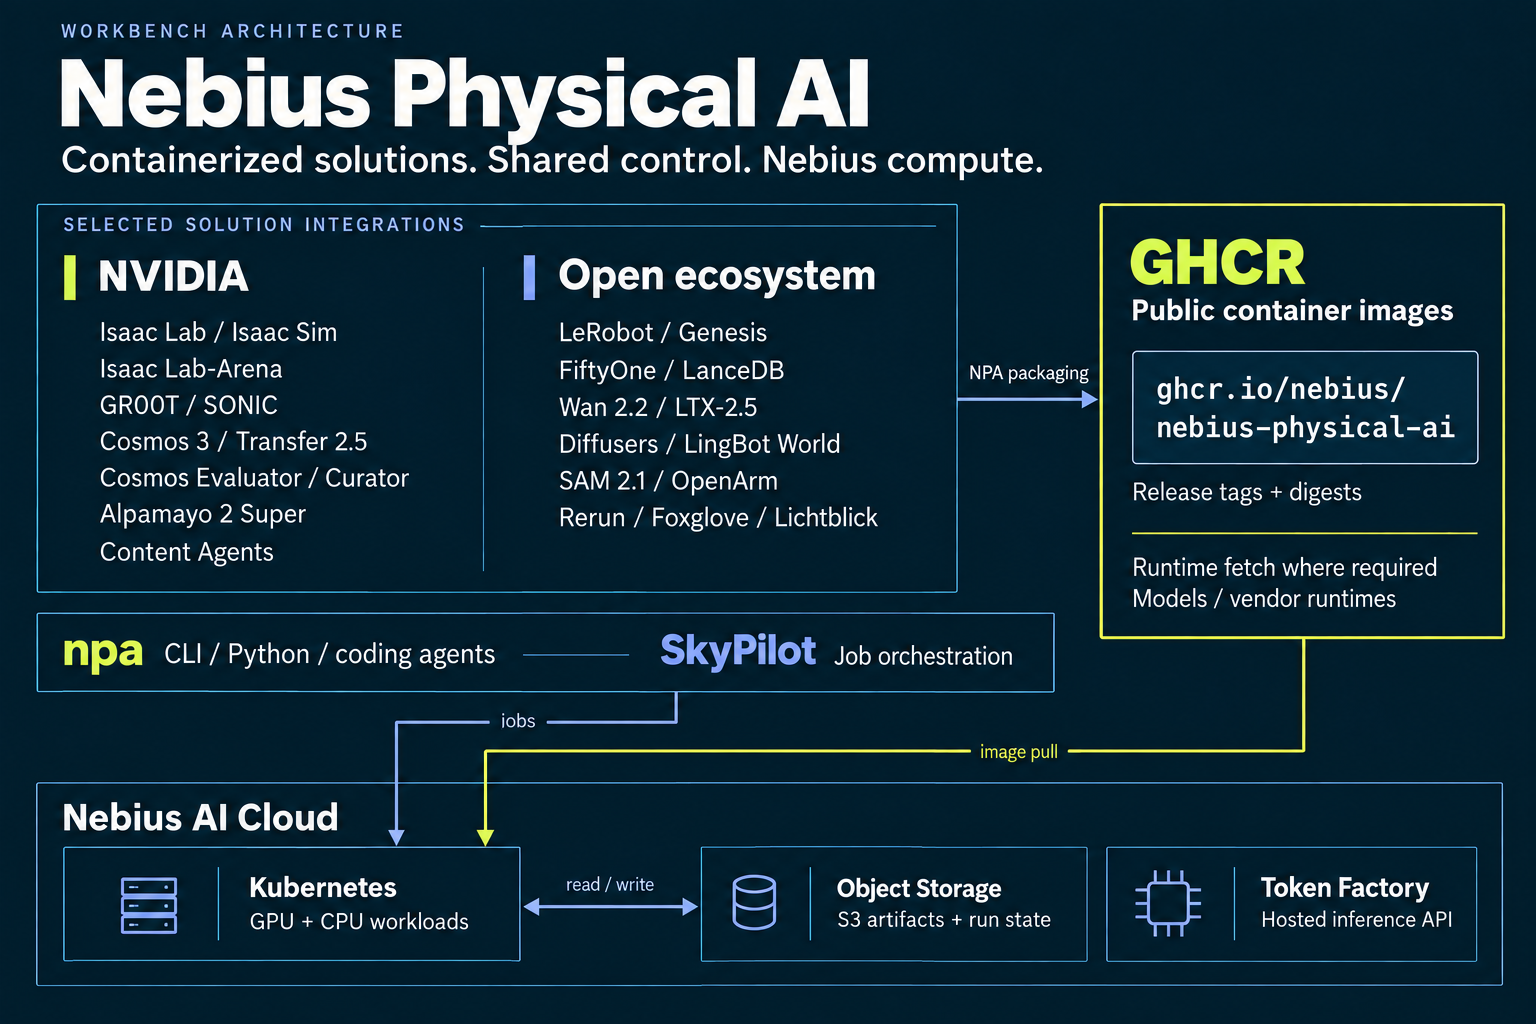
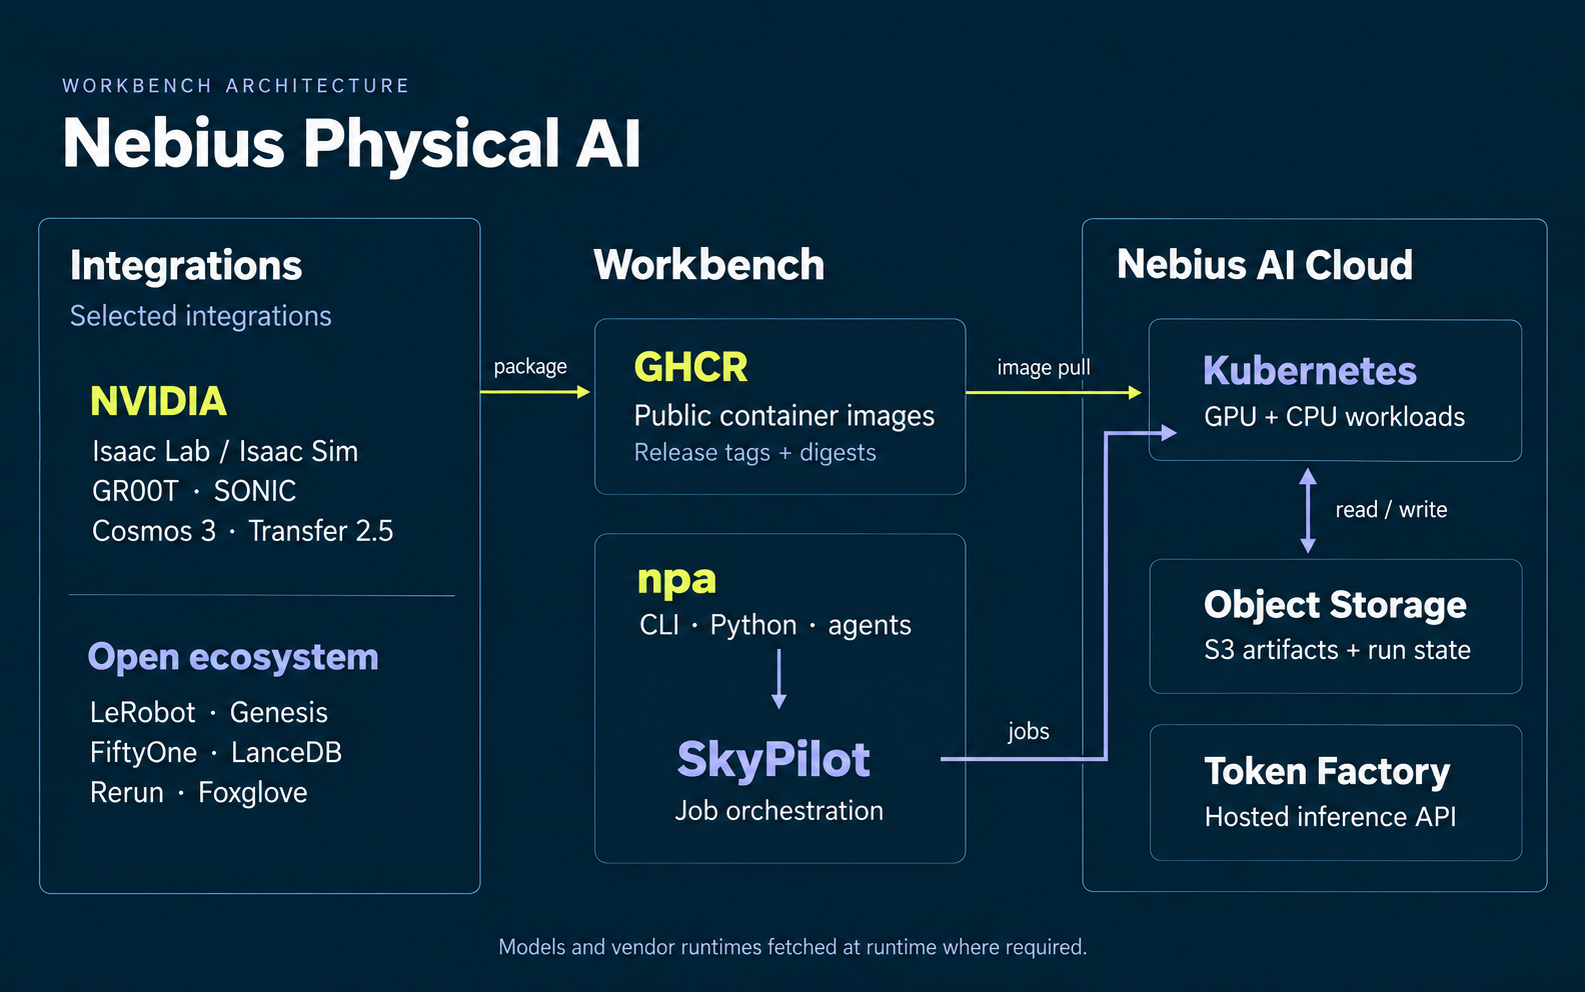
Simplify the Workbench architecture diagram

diff --git a/docs/assets/workbench-architecture.md b/docs/assets/workbench-architecture.md
@@ -9,8 +9,8 @@ individual workflow executes.
 
 | Element | Meaning | Source |
 | --- | --- | --- |
-| NVIDIA | Selected integrations: Isaac Lab / Isaac Sim, Isaac Lab-Arena, GR00T, SONIC, Cosmos 3, Transfer 2.5, Cosmos Evaluator, Cosmos Curator, Alpamayo 2 Super, and Content Agents. | [Public container catalog](../workbench/container-image-catalog.md) |
-| Open ecosystem | Selected integrations: LeRobot, Genesis, FiftyOne, LanceDB, Wan 2.2, LTX-2.5, Diffusers, LingBot World, SAM 2.1, OpenArm, Rerun, Foxglove, and Lichtblick. | [Public container catalog](../workbench/container-image-catalog.md) |
+| NVIDIA | Selected integrations: Isaac Lab / Isaac Sim, GR00T, SONIC, Cosmos 3, and Transfer 2.5. | [Public container catalog](../workbench/container-image-catalog.md) |
+| Open ecosystem | Selected integrations: LeRobot, Genesis, FiftyOne, LanceDB, Rerun, and Foxglove. | [Public container catalog](../workbench/container-image-catalog.md) |
 | NPA packaging → GHCR | Repository-selected public runtime images use `ghcr.io/nebius/nebius-physical-ai`. Resolve release tags to digests for reproducibility. | [Image resolver](../../npa/src/npa/deploy/images.py), [release manifest](../../npa/src/npa/deploy/public_release_manifest.json) |
 | Runtime fetch | Some public images contain a bootstrap or source runtime; models and vendor runtimes are obtained separately at execution time where required. | [Packaging contract](../workbench/container-packaging.md), [machine-readable inventory](../../npa/docker/workbench/packaging-contract.yaml) |
 | npa | Operators and coding agents use the CLI and supported Python interfaces to control workloads. | [Agent first run](../workbench/agent-first-run.md), [CLI and Python interfaces](../workbench/cli-sdk-yaml-walkthrough.md) |
@@ -18,20 +18,20 @@ individual workflow executes.
 | Object Storage | S3 stores inputs, outputs, checkpoints, reports, and durable workflow state. Workload containers read and write artifacts; NPA also persists and reads run state. | [Workflow guide](../workbench/npa-workflow-guide.md), [run lifecycle](../run-lifecycle.md) |
 | Token Factory | A separate hosted inference API, callable directly through NPA or from workload containers. The detailed API connection appears in the README task flow. | [Token Factory integration](../workbench/token-factory.md) |
 
-The ecosystem shelf is a selection of integrations represented in the public
+The integrations column is a selection of integrations represented in the public
 catalog, not an exhaustive inventory. Names identify integrations; the
 packaging contract determines which upstream bytes are included. For example,
-the Content Agents image uses runtime-fetched vendor components, and the
-Foxglove image hosts the Embed SDK and NPA glue rather than redistributing the
+the Foxglove image hosts the Embed SDK and NPA glue rather than redistributing the
 Foxglove application. Restricted operator-built images and development
 candidates retain their separate status in the catalog.
 
 The cloud boundary contains Kubernetes execution, Object Storage, and Token
-Factory. GHCR is an external distribution service. The control band represents
-submission responsibilities; it does not specify where every SkyPilot component
-is hosted. Image pull and job submission are separate connections into
-Kubernetes. Hardware support remains specific to each image and workload; see
-the [image/GPU matrix](../workbench/image-gpu-compatibility-matrix.md).
+Factory. GHCR is an external distribution service. The Workbench column groups
+image distribution and job submission responsibilities; it does not specify
+where every SkyPilot component is hosted. Image pull and job submission are
+separate connections into Kubernetes. Hardware support remains specific to each
+image and workload; see the
+[image/GPU matrix](../workbench/image-gpu-compatibility-matrix.md).
 
 ## Task-flow reference
 
@@ -45,11 +45,13 @@ deployment modes are documented in the [Workbench index](../workbench/README.md)
 
 ## Visual maintenance
 
-The PNG uses a midnight navy canvas, white type, electric lime for NVIDIA and
-GHCR, periwinkle for the open ecosystem and control layer, and fine rules.
-Keep the solution names and public registry namespace readable at the README's
-960-pixel display width. Preserve the accessible image description and the
-Mermaid `accTitle` / `accDescr`.
+The PNG uses three columns: integrations, Workbench, and Nebius AI Cloud.
+A flat midnight navy canvas, restrained lime and periwinkle accents, rounded
+panels, and generous spacing keep the architecture readable at the README's
+960-pixel display width. Keep only a few integration examples in the image;
+the public catalog holds the inventory and the README holds the registry
+namespace. Preserve the accessible image description and the Mermaid
+`accTitle` / `accDescr`.
 
 The PNG was produced with the built-in image-generation tool. The reusable
 generation brief below records its content and layout. Update this reference,
@@ -63,31 +65,35 @@ connector against the sources above after generation.
 Create a landscape platform architecture graphic for Nebius Physical AI. Use
 midnight navy `#071D2B`, lighter navy `#102A3A`, white type, electric lime
 `#D8F85B`, and periwinkle `#9BAFFF`. Use crisp sans-serif typography, a precise
-column grid, generous spacing, thin rules, and restrained geometric line icons.
+three-column grid, generous spacing, thin low-contrast borders, and subtly
+rounded flat panels. Use semibold headings and solid fills. Keep the title
+moderate and all labels readable at 960px. Avoid redundant nested boxes:
+the integration groups and SkyPilot have no inner borders, and the Workbench
+column has no enclosing boundary.
 
-- Header: "WORKBENCH ARCHITECTURE", "Nebius Physical AI", and
-  "Containerized solutions. Shared control. Nebius compute."
-- Upper left: "SELECTED SOLUTION INTEGRATIONS", divided into "NVIDIA" and
-  "Open ecosystem" columns. Use the exact solution names from the source table
-  above. Present them as lists without workflow ordering.
-- Upper right: a prominent "GHCR" panel, "Public container images", the public
-  namespace `ghcr.io/nebius/nebius-physical-ai` split after `nebius/`, and
-  "Release tags + digests". Beneath a divider: "Runtime fetch where required"
-  and "Models / vendor runtimes".
-- Connect the solution shelf to GHCR with a rightward "NPA packaging" arrow.
-- A slim control band below the solution shelf: "npa", "CLI / Python / coding
-  agents", "SkyPilot", and "Job orchestration".
-- A wide foundation labeled "Nebius AI Cloud" contains three service panels:
+- Header: "WORKBENCH ARCHITECTURE" and "Nebius Physical AI". No tagline.
+- Left column, "Integrations": one panel with "NVIDIA" and "Open ecosystem"
+  groups, separated by a fine rule. NVIDIA rows: "Isaac Lab / Isaac Sim",
+  "GR00T · SONIC", and "Cosmos 3 · Transfer 2.5". Open ecosystem rows:
+  "LeRobot · Genesis", "FiftyOne · LanceDB", and "Rerun · Foxglove".
+  Add the small caption "Selected integrations".
+- Middle column, "Workbench": a "GHCR" panel with "Public container images"
+  and "Release tags + digests". Below it, a separate panel with "npa" /
+  "CLI · Python · agents", a downward arrow, and "SkyPilot" /
+  "Job orchestration". Do not connect GHCR to npa.
+- Right column, "Nebius AI Cloud": an enclosing boundary with three services:
   "Kubernetes" / "GPU + CPU workloads", "Object Storage" / "S3 artifacts + run
-  state", and "Token Factory" / "Hosted inference API".
-- Route a blue "jobs" connector from SkyPilot leftward through the gap and
-  down into Kubernetes. Route a lime "image pull" connector from GHCR leftward
-  and down into Kubernetes, to the right of the jobs arrow. Keep them separate
-  and clear of text. Connect Kubernetes and Object Storage with a bidirectional
-  "read / write" arrow. Token Factory stands separately in the cloud boundary.
+  state", and "Token Factory" / "Hosted inference API", stacked vertically.
+- Connect the outer integrations panel to GHCR with a rightward "package"
+  arrow representing both integration groups. Align GHCR
+  and Kubernetes for a straight lime "image pull" arrow. Route a periwinkle
+  "jobs" elbow from SkyPilot through the column gutter into Kubernetes, clear
+  of other lines and text. Connect Kubernetes and Object Storage with a short
+  vertical bidirectional "read / write" arrow. Token Factory stands separately.
+- Footer: "Models and vendor runtimes fetched at runtime where required."
 
-Use only these connections. Keep the registry namespace and solution names
-verbatim. Omit decorative circuits, gradients, shadows, invented logos,
-workflow stages, hardware model numbers, and inventory counts.
+Use only these five connections, including npa to SkyPilot. Keep solution names
+verbatim. Omit the registry namespace, decorative icons, circuits, gradients,
+shadows, invented logos, numbered stages, hardware models, and inventory counts.
 
 </details>

diff --git a/README.md b/README.md
@@ -4,7 +4,7 @@
 
 **The control plane your coding agent uses to run physical-AI workloads on Nebius.**
 
-<img src="docs/assets/workbench-architecture.png" alt="Workbench architecture: selected NVIDIA and open-ecosystem solutions are packaged as public NPA container images on GHCR, with models and vendor runtimes fetched at runtime where required. The npa CLI, supported Python interfaces, and coding agents use SkyPilot to launch GPU and CPU workloads on Nebius Kubernetes. Object Storage holds artifacts and run state; Token Factory provides hosted inference." width="960" />
+<img src="docs/assets/workbench-architecture.png" alt="Workbench architecture: NVIDIA and open-ecosystem integrations are packaged into public GHCR images. npa and SkyPilot submit jobs; Nebius Kubernetes pulls images and reads and writes S3 artifacts and run state. Token Factory provides hosted inference. Models and vendor runtimes are fetched at runtime where required." width="960" />
 
 [![License: Apache 2.0](https://img.shields.io/badge/License-Apache_2.0-blue.svg)](LICENSE)
 [![Python 3.10+](https://img.shields.io/badge/python-3.10%2B-blue.svg)](https://www.python.org/downloads/)
@@ -78,8 +78,8 @@ flowchart TB
 
 The architecture overview maps selected NVIDIA and open-ecosystem solutions to
 NPA's [public GHCR container catalog](docs/workbench/container-image-catalog.md)
-and the Nebius services that run and support them. Some images fetch models or
-vendor runtimes at execution time; the
+at `ghcr.io/nebius/nebius-physical-ai` and the Nebius services that run and support
+them. Some images fetch models or vendor runtimes at execution time; the
 [packaging contract](docs/workbench/container-packaging.md) records those boundaries.
 
 The task flow above shows the standard Kubernetes workflow path. The
